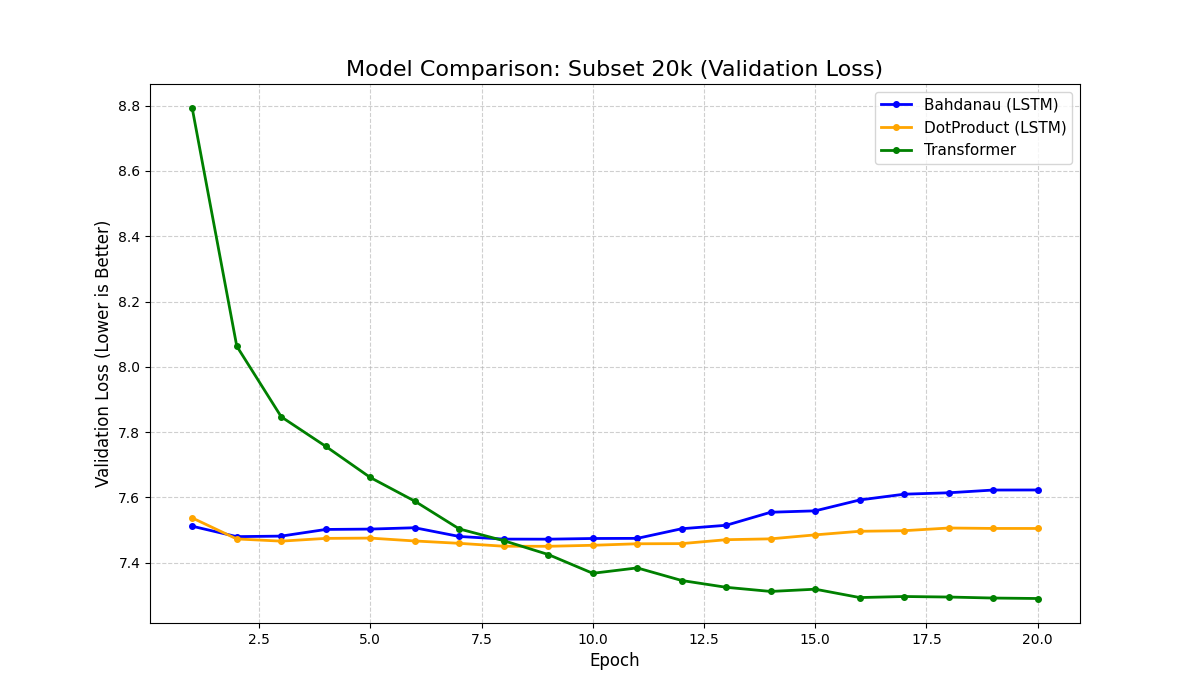
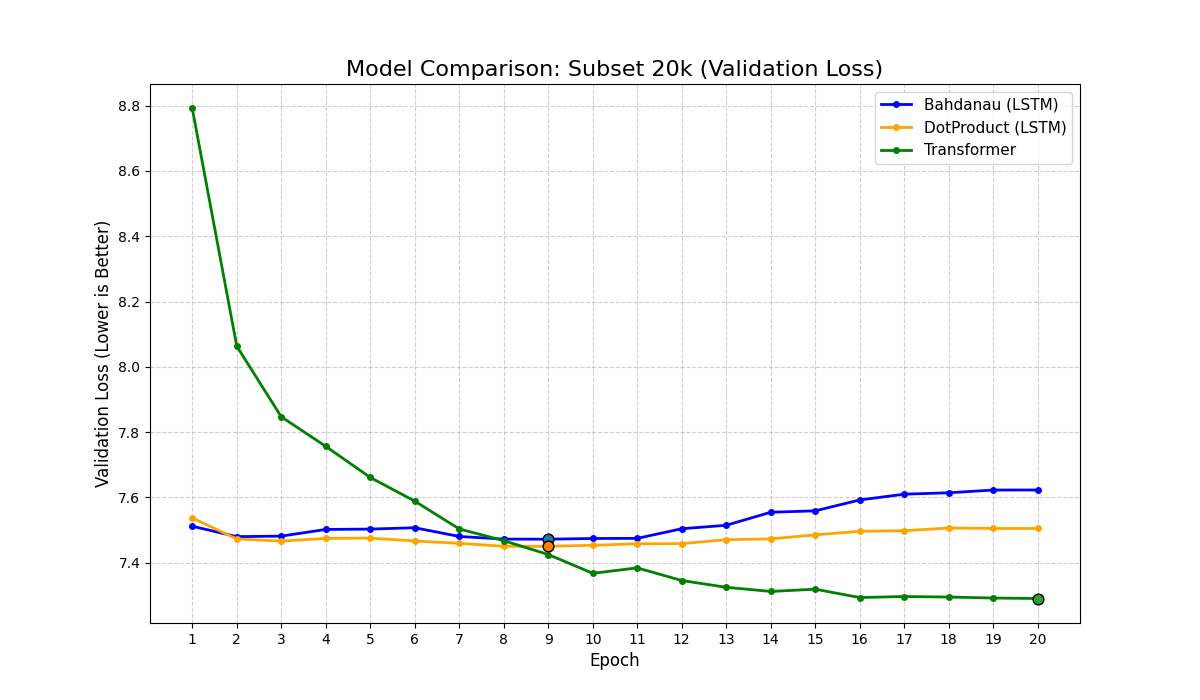
Update log parsing process

diff --git a/Project/scripts/compare_models.py b/Project/scripts/compare_models.py
@@ -69,6 +69,11 @@ def compare_models():
             plt.plot(epochs, losses, marker='o', markersize=4, linestyle='-', 
                      linewidth=2, label=model_name, color=colors.get(model_name, "black"))
             
+            # Highlighting the best epoch
+            min_loss = min(losses)
+            best_epoch = epochs[losses.index(min_loss)]
+            plt.scatter(best_epoch, min_loss, s=60, edgecolors='black', zorder=10)
+
             # Collecting stats for print summary
             min_loss = min(losses)
             final_epoch = epochs[-1]
@@ -77,6 +82,9 @@ def compare_models():
             print(f"{model_name:<20} | {min_loss:.4f}          | {final_epoch}")
         else:
             print(f"{model_name:<20} | NO DATA FOUND")
+
+    # X-axis ticks
+    plt.xticks(epochs)
 
     # Chart Styling
     plt.title('Model Comparison: Subset 20k (Validation Loss)', fontsize=16)

diff --git a/Project/scripts/log_parser.py b/Project/scripts/log_parser.py
@@ -145,7 +145,9 @@ def plot_temporal_efficiency(df):
             ax.bar(x + (i - len(subsets)/2)*w + w/2, vals, w, color=colors[i], edgecolor='white')
 
         ax.set_title(title, fontweight='bold', pad=15)
-        ax.set_xticks(x); ax.set_xticklabels(models, rotation=90); ax.grid(axis='y', linestyle='--', alpha=0.3)
+        ax.set_xticks(x)
+        ax.set_xticklabels(models, rotation=90)
+        ax.grid(axis='y', linestyle='--', alpha=0.3)
 
     plt.subplots_adjust(wspace=0.35, bottom=0.2)
     plt.savefig(os.path.join(SCRIPT_DIR, "temporal_efficiency.png"), dpi=300); 
